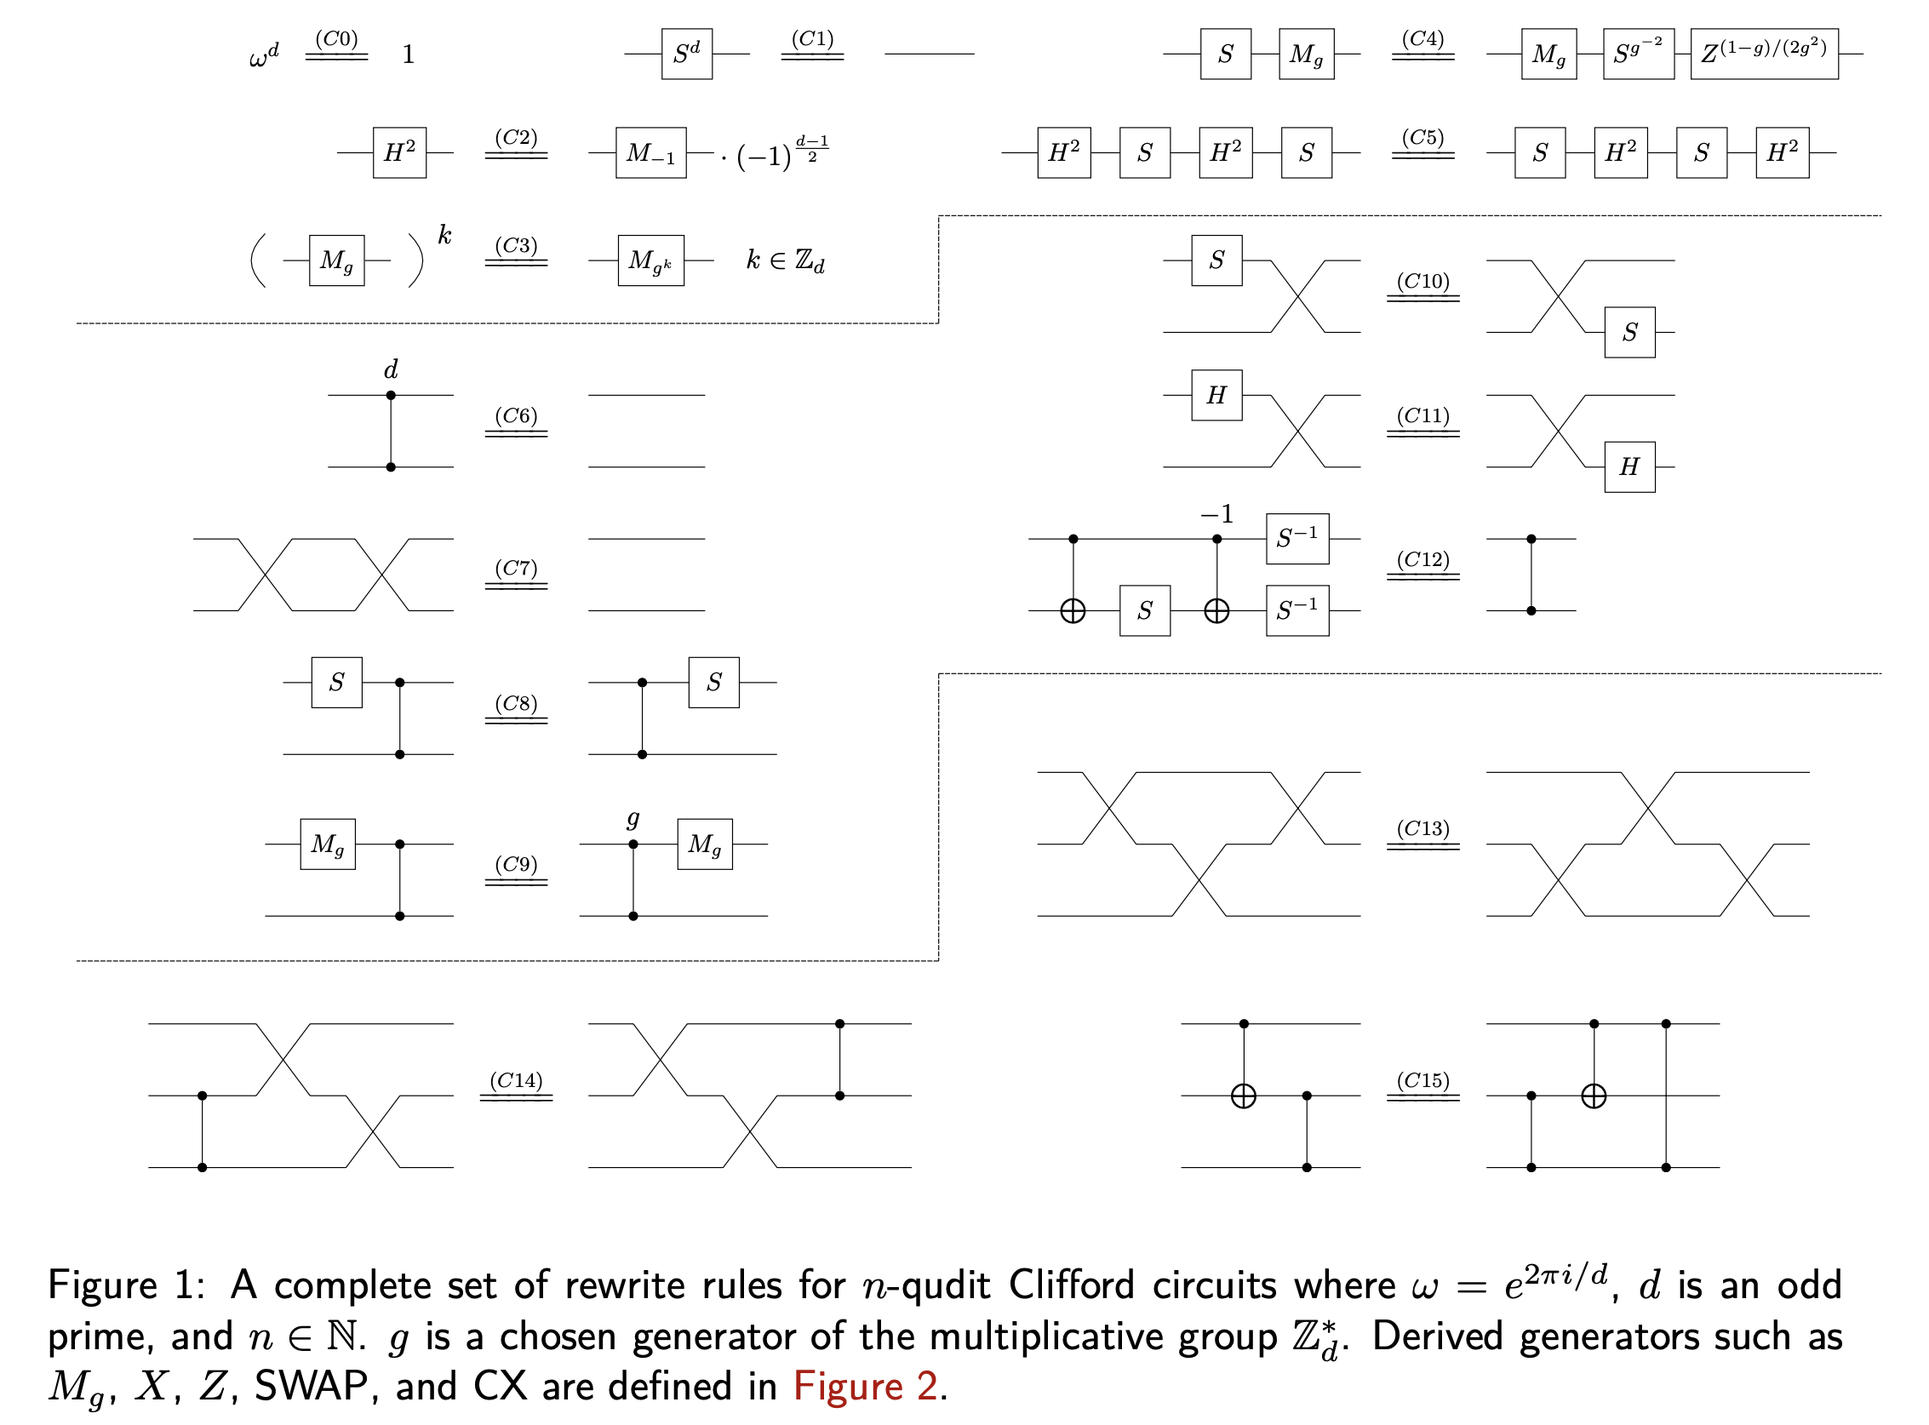
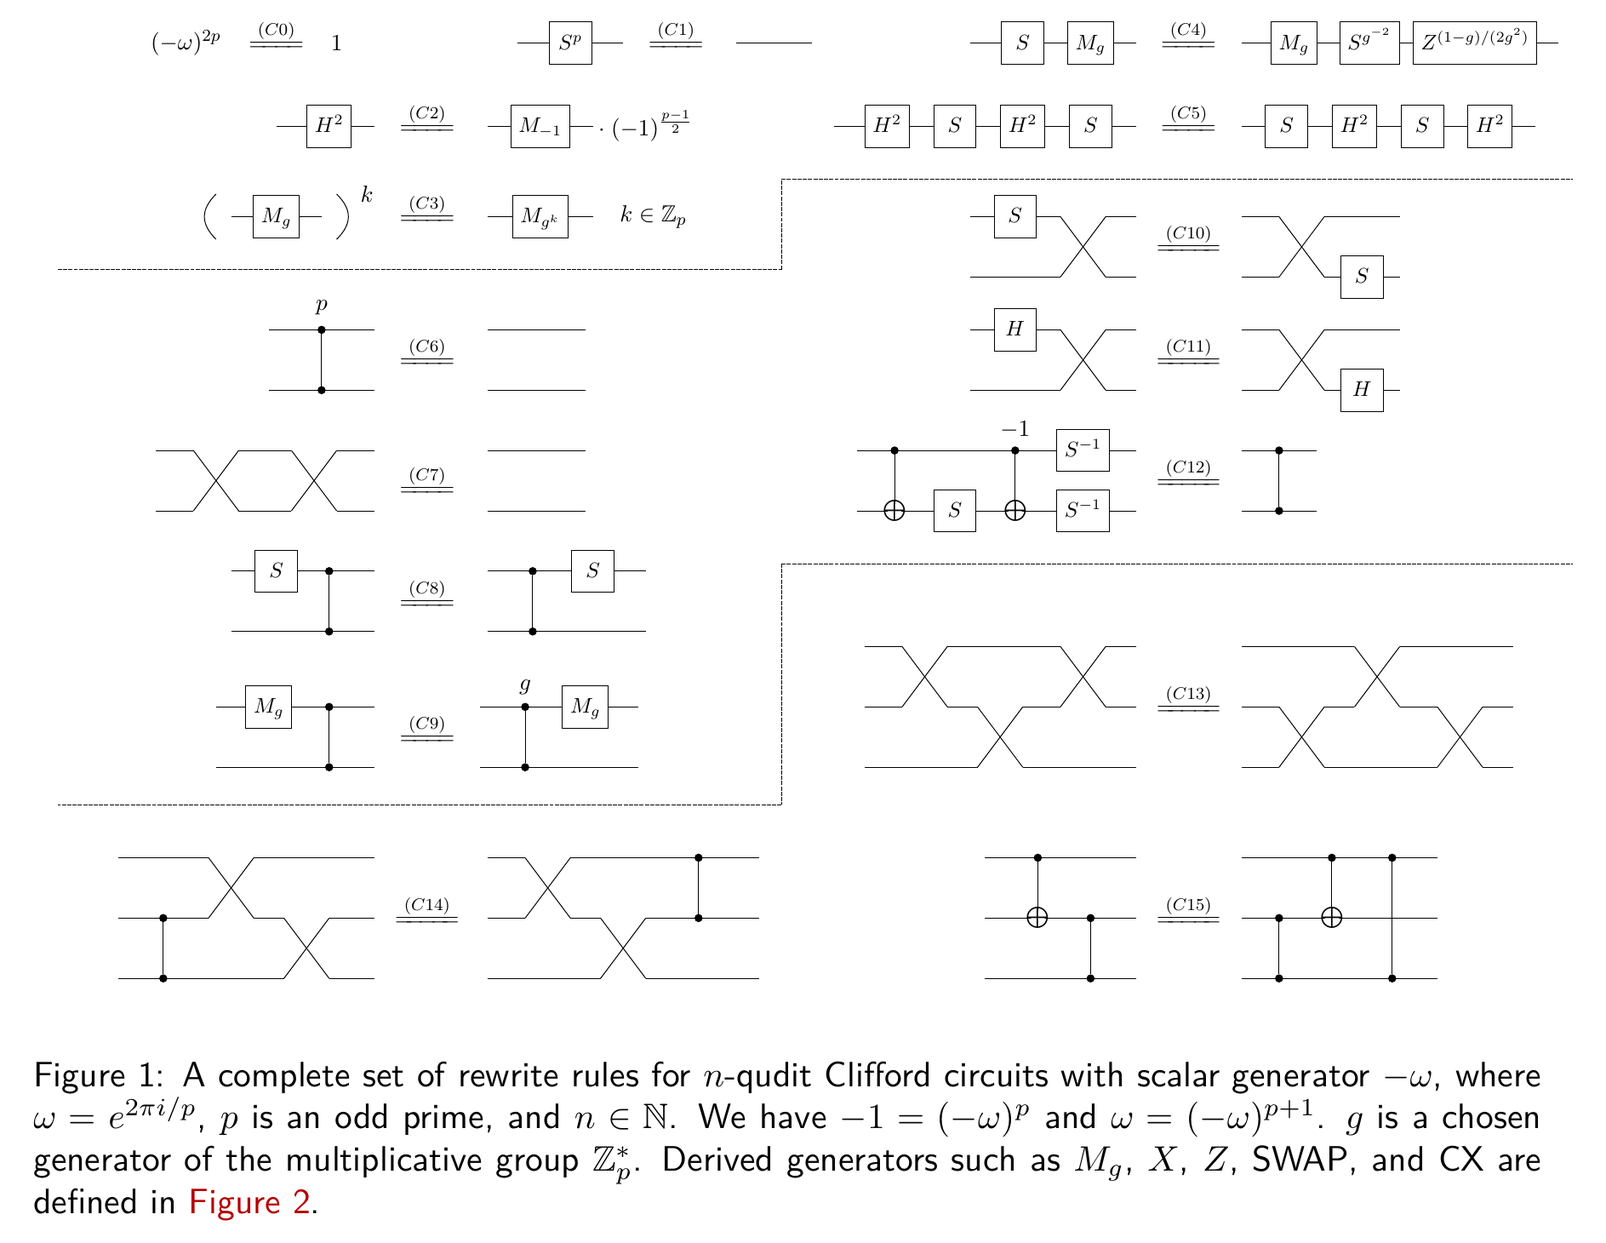
Updated the README to be consistent with the paper

diff --git a/README.md b/README.md
@@ -1,57 +1,72 @@
 # A Complete and Natural Rule Set for Multi-Qudit Clifford Circuits in All Odd Prime Dimensions
 
-This repository contains the Python verification code as well as the proof of relation derivation and reduction accompanying the paper. The paper presents a complete set of 16 rewrite rules, (C0) to (C15), for $n$-qudit Clifford circuits over the generating set $\{H, S, \mathrm{CZ}\}$, where the qudit dimension $d$ is an odd prime and $g$ is a chosen generator of the multiplicative group $\mathbb{Z}_d^*$. The rules are stated using a handful of derived generators, such as the multiplier $M_g$, the Paulis $X$ and $Z$, SWAP, and CX, which are themselves defined as circuits over $\{H, S, \mathrm{CZ}\}$.
+This repository accompanies the paper *A Complete and Natural Rule Set for Multi-Qudit Clifford Circuits in All Odd Prime Dimensions* by Xiaoning Bian, Sarah Meng Li, Neil J. Ross, John van de Wetering, and Yuming Zhao. It contains the Python code that checks the soundness of the box relations and derived relations used in the completeness proof, together with handwritten derivations of the box relations.
 
-Rather than fixing a single dimension, everything in this repository is parametrised by an odd prime $p$ (we write $p$ for $d$ throughout the code). To check that a relation is sound, we show that its lefthand side and its righthand side have the same symplectic matrix over $\mathbb{Z}_p$, treating the parameters that appear in the relation (such as $a, b, c, d \in \mathbb{Z}_p$) as symbols rather than concrete numbers. Each check is repeated for a list of odd primes.
+The paper presents 16 rewrite rules, (C0) to (C15) in Figure 1, and proves that they are sound and complete for $n$-qudit Clifford circuits over the generating set $\{-\omega, H, S, \mathrm{CZ}\}$ (Theorem 4.10). Here $p$ is an odd prime, $\omega = e^{2\pi i/p}$, and $g$ is a chosen generator of the multiplicative group $\mathbb{Z}_p^*$. The rules are stated using derived generators, such as the multiplier $M_g$, the Paulis $X$ and $Z$, SWAP, and CX, which are themselves circuits over $\{-\omega, H, S, \mathrm{CZ}\}$. Figure 2 shows a subset of them, and Figure 4 of the paper defines all of them, (T1) to (T9). The Agda formalisation of completeness is in a separate repository, [onestruggler/acir](https://github.com/onestruggler/acir/releases/tag/v1.0-quantum-submission).
 
-In what follows, we explain the folder structure, the verification method, the notations, and the conventions used in the code.
+As in the paper, everything in this repository is parametrised by the odd prime $p$. To check that a relation is sound, we show that its lefthand side and its righthand side have the same symplectic matrix over $\mathbb{Z}_p$, treating the parameters that appear in the relation (such as $a, b, c, d \in \mathbb{Z}_p$) as symbols rather than concrete numbers. In the notation of Definition 2.32 of the paper, this establishes $\mathrm{LHS} \equiv_s \mathrm{RHS}$. Each check is repeated for a list of odd primes.
+
+In what follows, we explain how the repository relates to the proof, the folder structure, the verification method, the notations, and the conventions used in the code.
 
 ![](https://github.com/SarahMMMLi/QuditClifford/blob/main/Figures/Figure1.png)
 
 ![](https://github.com/SarahMMMLi/QuditClifford/blob/main/Figures/Figure2.png)
 
-## Folder Structure
-The completeness proof in the paper proceeds in two stages. First, the box relations in the appendix are shown to be consequences of a set of derived relations. Second, the derived relations are shown to be consequences of the rewrite rules in Figure 1. For this argument to go through, both the box relations and the derived relations must be sound, i.e. they must hold as equalities of Clifford operators. This repository checks the soundness of both.
+## Where This Fits in the Proof
+The completeness proof in Section 4 of the paper has three steps.
 
-- [BoxRelation-Soundness.ipynb](https://github.com/SarahMMMLi/QuditClifford/blob/main/notebooks/BoxRelation-Soundness.ipynb) verifies the 66 one-, two-, and three-qupit box relations BR1 to BR66. Each box relation pushes a generator ($H$, $S$, or CZ) through one or two boxes ($A$, $B$, $D$, or $E$) of the normal form. The lefthand and righthand sides of every relation are exported as QASM files to [notebooks/circuits](https://github.com/SarahMMMLi/QuditClifford/tree/main/notebooks/circuits).
-- [DerivedRelations-Soundness.ipynb](https://github.com/SarahMMMLi/QuditClifford/blob/main/notebooks/DerivedRelations-Soundness.ipynb) verifies the derived relations, organised into the families R1 to R21 and C18. The QASM files are exported to [notebooks/derived-relations](https://github.com/SarahMMMLi/QuditClifford/tree/main/notebooks/derived-relations).
+1. **Box relations.** The symplectic normal form of Section 3.1 is built from the normal boxes $A$, $B$, $D$, and $E$ of Figure 6. Pushing a generator $H$, $S$, or CZ through one or two normal boxes yields a *box relation*. The 42 parametric box relations in Appendix F (Figures 15 to 21) suffice to rewrite any Clifford circuit into its symplectic normal form (Proposition 4.3).
+2. **Relation reduction.** The 18 symplectic relations in Figure 9 imply all 42 box relations (Theorem 4.4). The reduction goes through a collection of *derived relations*, which serve as intermediate lemmas and are listed in the supplement *Derived Relations and Supplemental Proofs*.
+3. **Lifting.** Accounting for Pauli corrections (Propositions 4.8 and 4.9) and for the scalar $-\omega$ via (C0) lifts symplectic completeness to the unitary completeness of Figure 1 (Theorem 4.10).
+
+For steps 1 and 2 to go through, the box relations and the derived relations must be sound up to Pauli correction, i.e. they must hold with respect to the symplectic interpretation of Definition 2.31. The notebooks in this repository check soundness in this sense. The soundness of the rules in Figure 1 as exact equalities of unitaries, scalars included, is proved by path-sum calculations in Appendix A.4 of the paper and is not checked here.
+
+## Folder Structure
+- [BoxRelation-Soundness.ipynb](https://github.com/SarahMMMLi/QuditClifford/blob/main/notebooks/BoxRelation-Soundness.ipynb) verifies the 66 one-, two-, and three-qudit box relations BR1 to BR66. Each box relation pushes a generator ($H$, $S$, or CZ) through one or two normal boxes ($A$, $B$, $D$, or $E$). These relations use an earlier parametrisation of the normal boxes than Figure 6 of the paper, which is why there are 66 of them rather than 42; see [Normal Boxes in the Code](#normal-boxes-in-the-code). The lefthand and righthand sides of every relation are exported as QASM files to [notebooks/circuits](https://github.com/SarahMMMLi/QuditClifford/tree/main/notebooks/circuits).
+- [DerivedRelations-Soundness.ipynb](https://github.com/SarahMMMLi/QuditClifford/blob/main/notebooks/DerivedRelations-Soundness.ipynb) verifies the derived relations, organised into the families R1 to R21, C18, D2, and D3 (not every number in the range R1 to R21 has its own check). The QASM files are exported to [notebooks/derived-relations](https://github.com/SarahMMMLi/QuditClifford/tree/main/notebooks/derived-relations).
 - [box-relation-derivations](https://github.com/SarahMMMLi/QuditClifford/tree/main/box-relation-derivations) contains all proofs deriving the one-, two-, and three-qudit box relations, organised into the subfolders [single-and-two-qudit](https://github.com/SarahMMMLi/QuditClifford/tree/main/box-relation-derivations/single-and-two-qudit) and [three-qudit](https://github.com/SarahMMMLi/QuditClifford/tree/main/box-relation-derivations/three-qudit).
+- [Python-verification-convention.pdf](https://github.com/SarahMMMLi/QuditClifford/blob/main/notebooks/Python-verification-convention.pdf) records the symplectic matrix convention used in the code, the circuits implementing the $A$ boxes, and the sanity checks run on them.
 - [dizx](https://github.com/SarahMMMLi/QuditClifford/tree/main/dizx) is the DiZX library for qudit ZX-calculus and circuit rewriting by Boldizsár Poór, Lia Yeh, and John van de Wetering (Apache 2.0). It is extended here with symbolic gate exponents, the QASM dialect described below, and the module [symplectic.py](https://github.com/SarahMMMLi/QuditClifford/blob/main/dizx/symplectic.py), which maps a Clifford circuit to its symplectic matrix.
 - [Tests](https://github.com/SarahMMMLi/QuditClifford/tree/main/Tests) contains unit tests for the circuit simplifier in `dizx`.
-- [Figures](https://github.com/SarahMMMLi/QuditClifford/tree/main/Figures) contains Figures 1 and 2 above.
+- [Figures](https://github.com/SarahMMMLi/QuditClifford/tree/main/Figures) contains Figures 1 and 2 of the paper, shown above.
 
 Scratch QASM exports and development notebooks for the `dizx` rewriting engine are kept in [circuits](https://github.com/SarahMMMLi/QuditClifford/tree/main/circuits), [notebooks/test](https://github.com/SarahMMMLi/QuditClifford/tree/main/notebooks/test), and [CircuitSimplifierHacking.ipynb](https://github.com/SarahMMMLi/QuditClifford/blob/main/notebooks/CircuitSimplifierHacking.ipynb). They are not needed to reproduce the soundness checks.
 
 ## Verification Method
 Both soundness notebooks follow the same recipe. For each relation,
 
-1. The lefthand side and the righthand side are built as `dizx` circuits. Parameters such as $a, b, c, d$ are SymPy symbols, and boxes are instantiated by helper functions such as `instantiate_A_box` and `instantiate_multiplier`.
-2. Each circuit is mapped to its symplectic matrix over $\mathbb{Z}_p$ via `Circuit.to_symplectic_matrix()`. The matrix acts on the basis $(x_1, z_1, x_2, z_2, \dots)$. Phases are ignored, so a successful check establishes the relation up to Paulis and a global scalar. The scalars appearing in Figures 1 and 2, such as $\omega$, $\lambda_d$, and the Legendre symbol, are not checked here.
+1. The lefthand side and the righthand side are built as `dizx` circuits. Parameters such as $a, b, c, d$ are SymPy symbols, and boxes and multipliers are instantiated by helper functions such as `instantiate_A_box` and `instantiate_multiplier`.
+2. Each circuit is mapped to its symplectic matrix over $\mathbb{Z}_p$ via `Circuit.to_symplectic_matrix()`. Pauli gates map to the identity and phases are ignored, so a successful check establishes $\mathrm{LHS} \equiv_s \mathrm{RHS}$, i.e. the relation up to a Pauli correction and a global phase. The scalars appearing in Figures 1 and 2, such as $-\omega$, $\lambda_p$, and the Legendre symbol $\left(\frac{a}{p}\right)_L$, are not checked here.
 3. The two matrices are reduced symbolically. Formal inverse pairs such as `(a, ainv)` and composite symbols such as `bminusc` are turned into polynomial relations (`a * ainv - 1`, `bminusc - (b - c)`, and so on), and the matrix entries are reduced with respect to a Gröbner basis of these relations. This is what allows the check to be symbolic in the parameters.
 4. The reduced matrices are taken modulo $p$ and compared entrywise.
 
-This is repeated for every prime in the list `primes = [3, 5, 7, 11, 13, 19, 23, 31, 37]`. The notebook prints ✔ if the relation holds for a prime and ❌ otherwise. After all primes have been processed, the lefthand and righthand circuits are written to QASM files for the last prime in the list.
+This is repeated for every prime in a list such as `primes = [3, 5, 7, 11, 13, 19, 23, 31, 37]`. The notebook prints ✔ if the relation holds for a prime and ❌ otherwise. After all primes have been processed, the lefthand and righthand circuits are written to QASM files for the last prime in the list.
 
 Note that the soundness of a relation never depends on order relations such as $S^p = \mathrm{CZ}^p = I$. It only relies on field identities such as $(b - a)(b - a)^{-1} = 1$, so in principle a single prime would suffice. We iterate over several primes as a sanity check.
 
 ## Notations
-We use a few abbreviations to simplify the discussions, as summarized below.
+We follow the notation of the paper. The abbreviations and code-specific names are summarised below.
 
-- **LHS** is short for 'Lefthand Side'.
-- **RHS** is short for 'Righthand Side'.
-- **BR** followed by a number denotes a box relation from the appendix of the paper, e.g. **BR10**.
-- **R** or **C18** followed by a number denotes a derived relation, e.g. **R9** or **C18-17**.
-- $A_{ab}$, $B_{ab}$, $D_{ab}$, and $E_b$ denote the boxes of the normal form, with parameters in $\mathbb{Z}_p$. $M_a$ denotes the multiplier gate.
+- $p$ is the qudit dimension, an odd prime, $\omega = e^{2\pi i/p}$, and $\lambda_p = e^{(p-1)\pi i/4}$. In the code, $p$ is the argument `p` or `dim`, and the line `quditdim p` in a QASM file.
+- $g$ is a chosen generator of $\mathbb{Z}_p^*$, and $M_a$ is the multiplier by $a \in \mathbb{Z}_p^*$ (Definition 2.14), which sends $\vert x\rangle$ to $\vert ax\rangle$.
+- $\equiv$, $\equiv_u$, $\equiv_p$, and $\equiv_s$ are the equivalences of Definition 2.32: equal as circuits, equal as unitaries, equal up to a global phase, and equal up to a Pauli correction (same symplectic matrix). The code checks $\equiv_s$. The handwritten notes write $\hat{=}$ for $\equiv_s$.
+- **LHS** is short for 'Lefthand Side' and **RHS** is short for 'Righthand Side'.
+- $A_{ab}$, $B_{ab}$, $D_{ab}$, and $E_b$ denote the normal boxes, with parameters in $\mathbb{Z}_p$.
+- **BR** followed by a number denotes a box relation as numbered in [BoxRelation-Soundness.ipynb](https://github.com/SarahMMMLi/QuditClifford/blob/main/notebooks/BoxRelation-Soundness.ipynb), e.g. **BR10**. This numbering is internal to the repository and differs from the order of the box relations in Appendix F of the paper.
+- **R**, **D**, or **C18** followed by a number denotes a derived relation, e.g. **R9** or **C18-17**. **D2** and **D3** express the $A$ boxes in terms of multipliers. The **C18** family consists of instances and variants of relation (C18) in Figure 9, which is the same circuit identity as (C15) in Figure 1. Note that Figure 9 and Figure 1 number their relations differently, even though both use labels starting with C.
+- Exponents of $\omega$ and of gates of order $p$ are read in $\mathbb{Z}_p$ (Remarks 1.1 and 2.2). For example, $S^{a^{-1}}$ is an integer power of $S$, and $S^{-1}$ is $S^{p-1}$.
 - In the code, the formal inverse of a symbol `x` is written `xinv`, and composite parameters are spelled out in words: `ainv` is $a^{-1}$, `binvinv` is $(b^{-1})^{-1}$, `bminusc` is $b - c$, `oneminusa` is $1 - a$, `aplus1` is $a + 1$, `ab` is $ab$, and `ac` is $ac$.
 
 ## Conventions
+- **Symplectic matrices.** The paper (Definition 2.26) identifies an $n$-qudit Pauli, up to phase, with a vector $(\vec{a}, \vec{b}) \in \mathbb{Z}_p^{2n}$, where $\vec{a}$ collects the $Z$ exponents and $\vec{b}$ the $X$ exponents. The code instead orders the coordinates qudit by qudit as $(x_1, z_1, x_2, z_2, \dots, x_n, z_n)$, with the $X$ exponent before the $Z$ exponent. The matrix of a circuit $C$ sends the exponent vector of a Pauli $P$ to that of $C \bullet P = CPC^\dagger$. The two orderings differ by a fixed permutation of the coordinates, so two circuits have the same matrix in one convention if and only if they have the same matrix in the other, and the soundness checks are unaffected. The matrices of the individual gates agree with Lemma 2.24 ($H$ and $S$), Lemma 2.25 (CZ), Lemma B.3 (CX), and Equation (12) ($M_a$). For example, $H$ sends $X$ to $Z$ and $Z$ to $X^{-1}$, so its matrix in the basis $(x, z)$ has columns $(0, 1)$ and $(-1, 0)$. See [Python-verification-convention.pdf](https://github.com/SarahMMMLi/QuditClifford/blob/main/notebooks/Python-verification-convention.pdf) for worked examples.
+- **Circuit order.** Gates are listed in the order in which they are applied, which is the diagrammatic order $A;B$ of Section 3.3 of the paper. The circuit $A;B$ corresponds to the matrix product $BA$, and `Circuit.to_symplectic_matrix()` multiplies accordingly.
 - Every relation is stored as a pair of QASM files named `<name>-lhs.qasm` and `<name>-rhs.qasm`.
 - A numeric suffix such as `-2` or `-3` marks a case split of the same relation. For example, `BR10-2` is the second case of BR10. Names such as `R9-12` or `C18-17-3` enumerate instantiations of a relation family.
-- The QASM dialect extends OPENQASM 2.0 with a `quditdim p` line that fixes the dimension. The available gates are `h`, `s`, `cz`, `cx`, and `swap`. A gate can be raised to an integer or symbolic power with `^`, for example `h^-1`, `s^b`, `s^binv`, `cx^a`, or `cx^-binv*c`.
-- For `cx q[i], q[j]`, the first argument is the control and the second is the target.
-- Qudit indices start from 0, and gates are listed in the order in which they are applied.
+- The QASM dialect extends OPENQASM 2.0 with a `quditdim p` line that fixes the dimension $p$. The available gates are `h`, `s`, `cz`, `cx`, and `swap`. A gate can be raised to an integer or symbolic power with `^`, for example `h^-1`, `s^b`, `s^binv`, `cx^a`, or `cx^-binv*c`.
+- For `cx q[i], q[j]`, the first argument is the control and the second is the target, as in (T5) of the paper. The gate XC of (T6) is written `cx` with the control and target swapped.
+- Qudit indices start from 0, and the qudit with index 0 is the top wire in the circuit diagrams of the paper.
 
-Here is an example. The relation `C18-1` states that a CX gate with control 0 and target 1 commutes past a CZ gate on qudits 1 and 2 at the cost of an extra CZ.
+Here is an example. The relation `C18-1` is an instance of (C18) in Figure 9, i.e. (C15) in Figure 1, with a CX gate raised to the power $a$: a CX gate with control 0 and target 1 commutes past a CZ gate on qudits 1 and 2 at the cost of an extra CZ on qudits 0 and 2.
 
 `C18-1-lhs.qasm`
 ```
@@ -73,6 +88,23 @@ cz q[1], q[2];
 cx^a q[0], q[1];
 cz^a q[0], q[2];
 ```
+
+## Normal Boxes in the Code
+The box relations BR1 to BR66, the handwritten derivations in [box-relation-derivations](https://github.com/SarahMMMLi/QuditClifford/tree/main/box-relation-derivations), and [Python-verification-convention.pdf](https://github.com/SarahMMMLi/QuditClifford/blob/main/notebooks/Python-verification-convention.pdf) use an earlier parametrisation of the normal boxes than Figure 6 of the paper. The table compares the two. Circuits are read from left to right, and on two qudits the "top" wire is the first qudit $j$ and the "bottom" wire is the second qudit $k$.
+
+| Box | Figure 6 of the paper | Code (`instantiate_*_box`) | Same symplectic matrix? |
+| --- | --- | --- | --- |
+| $A_{0b}$, $b \neq 0$ | $M_b$ | $H^{-1}, S^{b^{-1}}, H^{-1}, S^{b}, H$ | No |
+| $A_{ab}$, $a \neq 0$ | $S^{-b/a}, H, M_a$ | $H^{-1}, S^{-a}, H^{-1}, S^{-a^{-1}}, H^{-1}, S^{-a(b+1)}, H$ | Yes |
+| $B_{00}$ | SWAP | SWAP | Yes |
+| $B_{01}$ | CX, SWAP | SWAP, XC | Yes |
+| $B_{0b}$, $b \notin \{0, 1\}$ | $\mathrm{CX}^b$, SWAP | $A_{0b}$ on top, SWAP, XC | No |
+| $B_{ab}$, $a \neq 0$ | $S^{-b/a}$ and $H$ on top, $\mathrm{CX}^a$, SWAP | $A_{ab}$ on top, SWAP, XC | Not in general |
+| $D_{0b}$ | $\mathrm{CZ}^{-b}$, SWAP | SWAP, $\mathrm{CZ}^{-b}$ | Yes |
+| $D_{ab}$, $a \neq 0$ | $S^{-b/a}$ and $H$ on the bottom, $\mathrm{CZ}^{-a}$, SWAP | $A_{ab}$ on the bottom, SWAP, $\mathrm{CZ}^{-1}$ | Not in general |
+| $E_b$ | $S^{-b}$ | $S^{-b}$ | Yes |
+
+Because some boxes differ, BR1 to BR66 are checked for this earlier parametrisation and do not correspond one-to-one to the 42 parametric box relations in Appendix F of the paper. For example, the code treats $B_{01}$ and $B_{0b}$ with $b \notin \{0, 1\}$ as separate cases. We deliberately keep the soundness check for this previous version of the box relations, so that it matches the handwritten derivations in this repository.
 
 ## Running the Code
 The notebooks require Python 3 together with SymPy, NumPy, Matplotlib, ipywidgets, Qiskit (only for drawing circuits), and Jupyter.
